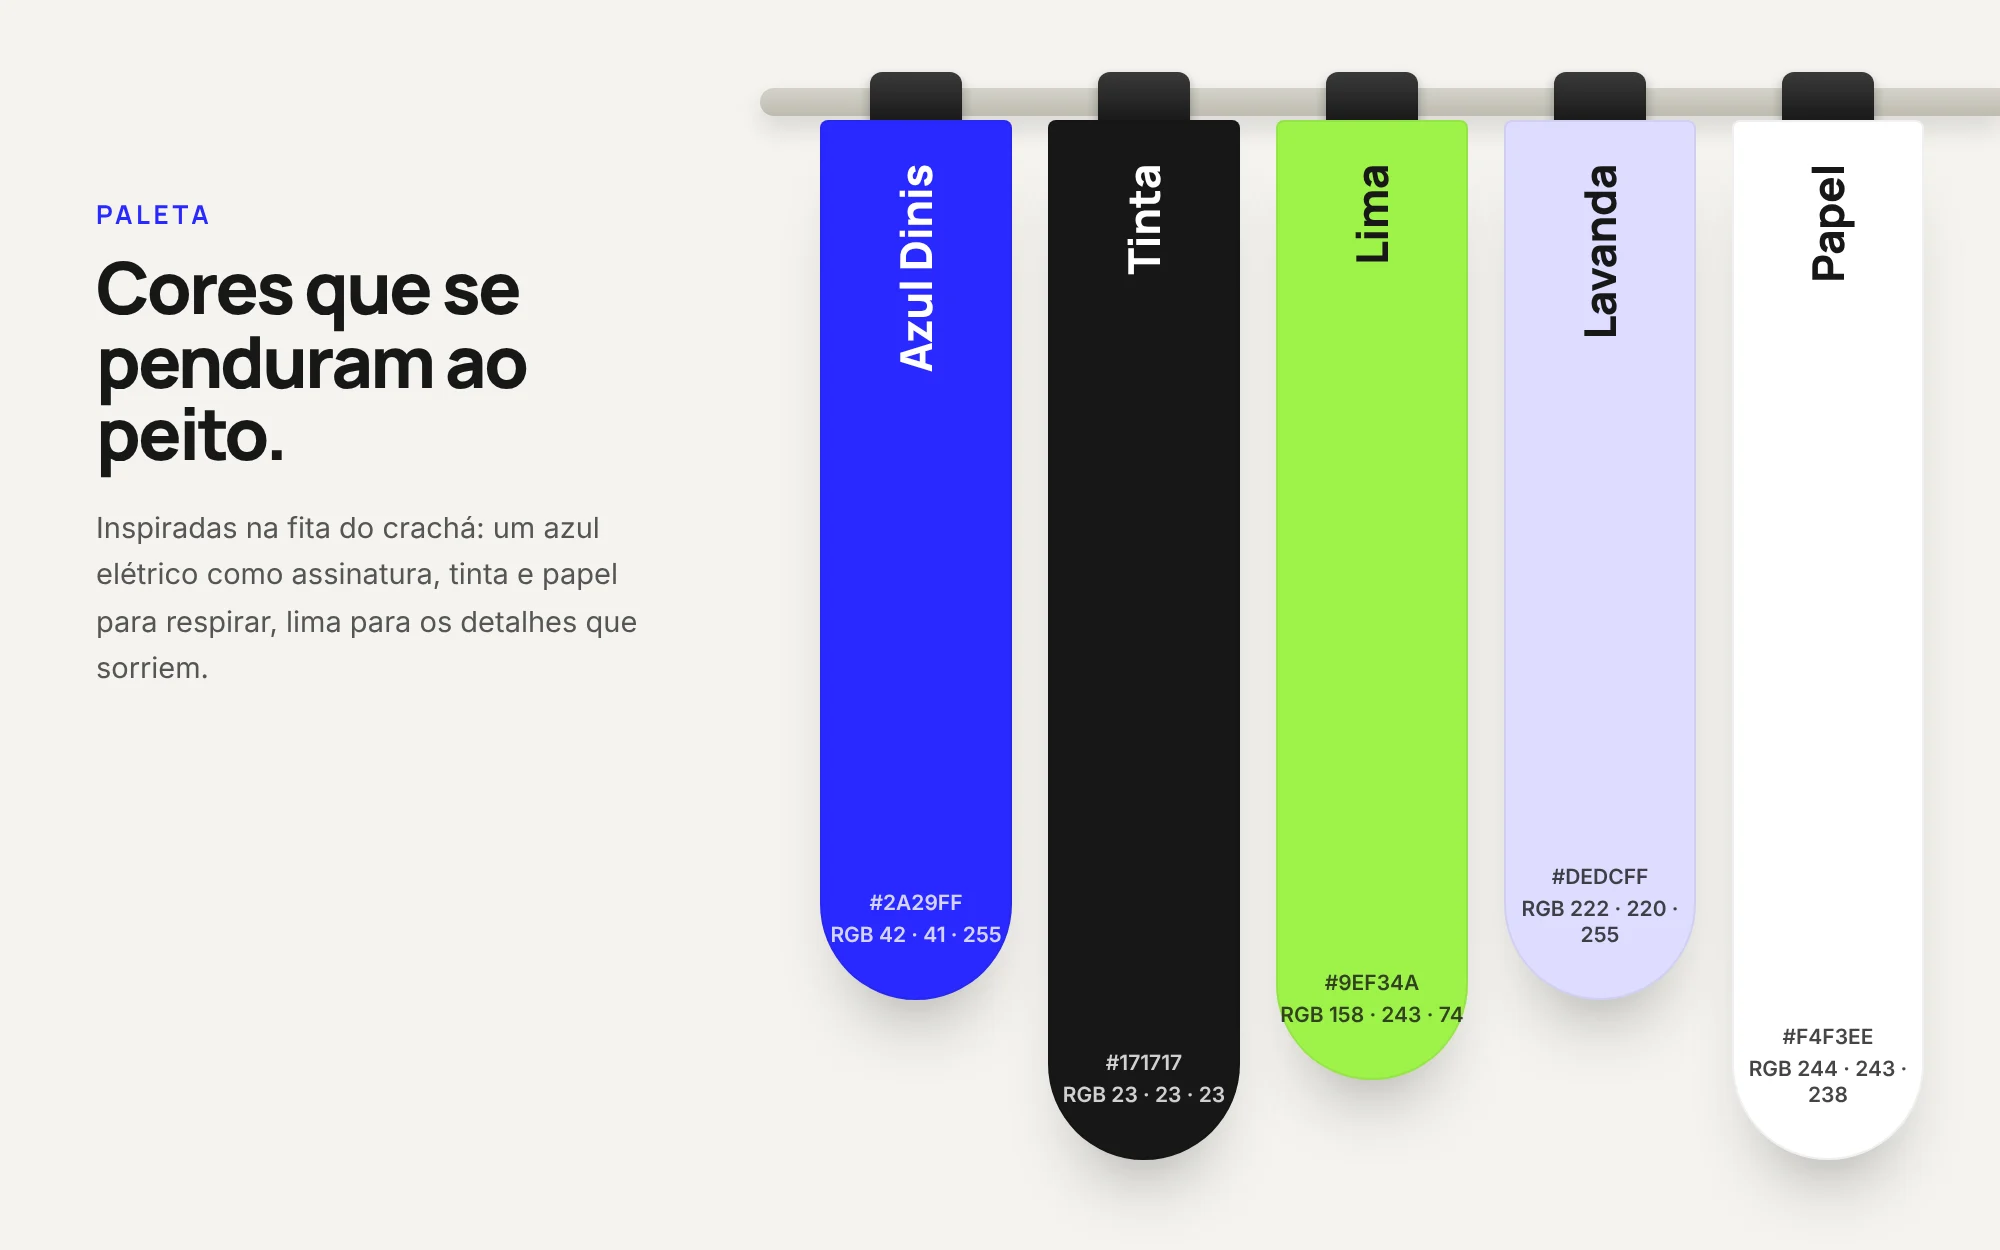
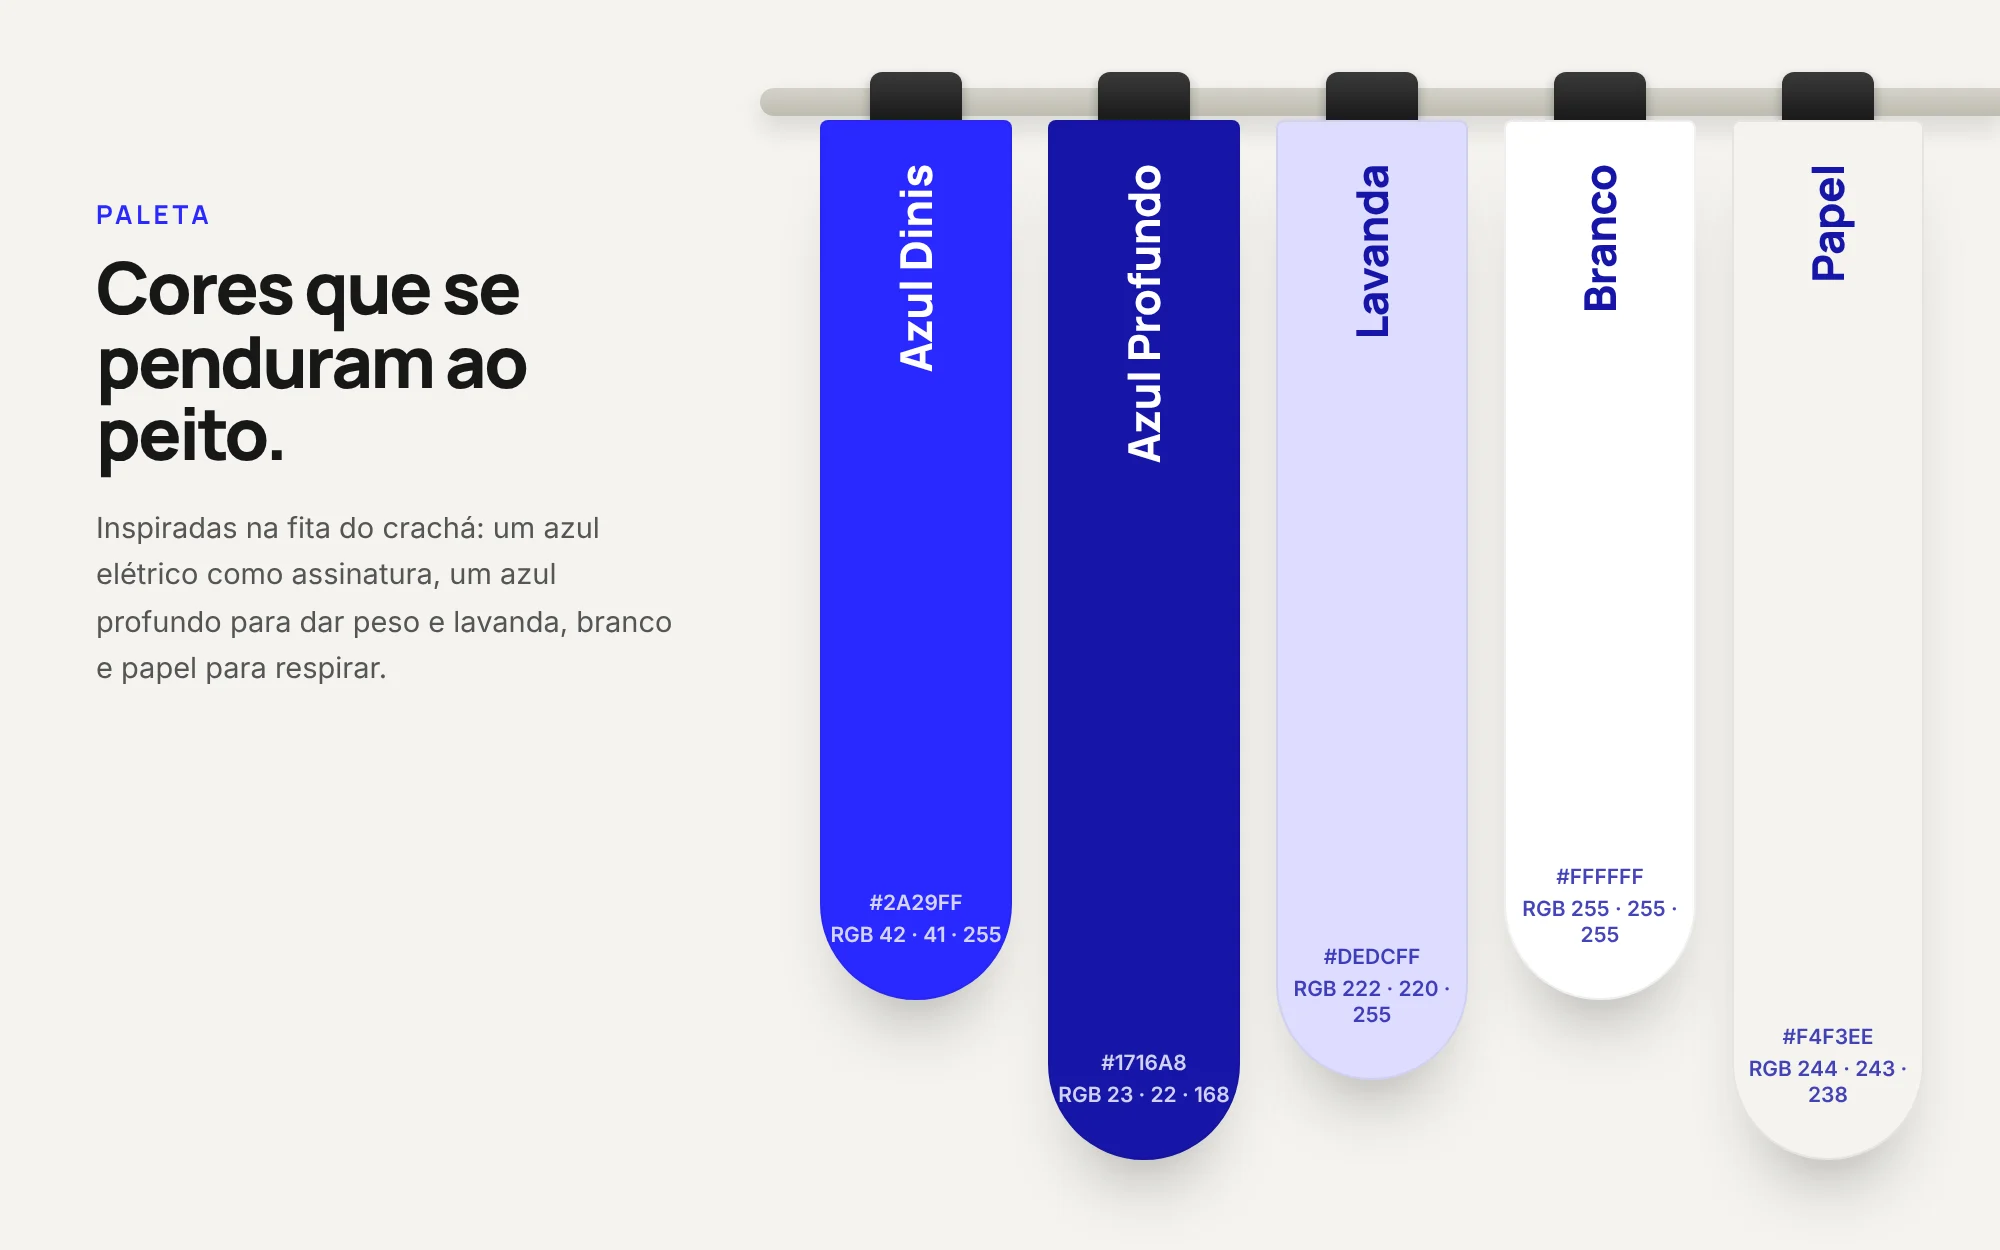
Marca pessoal: sem verde-lima nem preto, sem ponto verde
Claude-Session: https://claude.ai/code/session_017ewHNcAXVDPRRYUgJkUYqb

diff --git a/en/projects/dinis-cardoso-brand/index.html b/en/projects/dinis-cardoso-brand/index.html
@@ -74,7 +74,7 @@
 
   <section class="chapter">
     <div class="side rv"><span class="no"><b>02</b>Process</span></div>
-    <div class="body"><h2 class="rv">Where the d closes, the c opens</h2><p class="rv">The mark is built from two identical circles and one vertical stroke shared by both letters. The d is closed: it stands for focus and for a problem that is clearly defined. The c is open: it leaves room for the idea to come in — in the animation, it is literally where the lime dot, the solution, lands. The stem belongs to both, because the same line that closes one idea always opens the next. The palette takes its cue from the badge lanyard: an electric blue as the signature, ink and paper to breathe, and lime for the details that smile.</p></div>
+    <div class="body"><h2 class="rv">Where the d closes, the c opens</h2><p class="rv">The mark is built from two identical circles and one vertical stroke shared by both letters. The d is closed: it stands for focus and for a problem that is clearly defined. The c is open: it leaves room for the idea to come in. The stem belongs to both, because the same line that closes one idea always opens the next. The palette takes its cue from the badge lanyard: an electric blue as the signature, a deep blue to add weight, and lavender, white and paper to breathe.</p></div>
   </section>
   <div class="gallery"><figure class="full rv" style="aspect-ratio:1000/640" data-full="../../../assets/img/dc-variations.webp"><img src="../../../assets/img/dc-variations.webp" alt="Dinis Cardoso® — Personal brand — project image" loading="lazy"></figure><figure class="full rv" style="aspect-ratio:1000/625" data-full="../../../assets/img/dc-palette.webp"><img src="../../../assets/img/dc-palette.webp" alt="Dinis Cardoso® — Personal brand — project image" loading="lazy"></figure><figure class="full rv" style="aspect-ratio:1000/625" data-full="../../../assets/img/dc-type.webp"><img src="../../../assets/img/dc-type.webp" alt="Dinis Cardoso® — Personal brand — project image" loading="lazy"></figure><figure class="full rv" style="aspect-ratio:1000/640" data-full="../../../assets/img/dc-pattern.webp"><img src="../../../assets/img/dc-pattern.webp" alt="Dinis Cardoso® — Personal brand — project image" loading="lazy"></figure></div>
   
@@ -82,7 +82,7 @@
   <section class="result rv">
     <div class="in-wrap">
       <div><span class="no"><b>03</b>Outcome</span></div>
-      <div><h2>A system with a personality</h2><p>From there the identity grew into a full system: main, positive, night and energy versions, a seal, an app icon and a repeating pattern; Manrope for clarity and Caveat for the handwritten voice of the motto. Applied to business cards, letterhead, posters with my own photos, merchandise and social media, the brand stays recognisable even before you read the name — direct, warm and always one step closer to the next idea.</p></div>
+      <div><h2>A system with a personality</h2><p>From there the identity grew into a full system: main, positive, deep and soft versions, a seal, an app icon and a repeating pattern; Manrope for clarity and Caveat for the handwritten voice of the motto. Applied to business cards, letterhead, posters with my own photos, merchandise and social media, the brand stays recognisable even before you read the name — direct, warm and always one step closer to the next idea.</p></div>
     </div>
     <div class="gallery"><figure class="full rv" style="aspect-ratio:1000/640" data-full="../../../assets/img/dc-posters.webp"><img src="../../../assets/img/dc-posters.webp" alt="Dinis Cardoso® — Personal brand — project image" loading="lazy"></figure><figure class="full rv" style="aspect-ratio:1000/640" data-full="../../../assets/img/dc-stationery.webp"><img src="../../../assets/img/dc-stationery.webp" alt="Dinis Cardoso® — Personal brand — project image" loading="lazy"></figure><figure class="full rv" style="aspect-ratio:1000/640" data-full="../../../assets/img/dc-merch.webp"><img src="../../../assets/img/dc-merch.webp" alt="Dinis Cardoso® — Personal brand — project image" loading="lazy"></figure><figure class="full rv" style="aspect-ratio:1000/640" data-full="../../../assets/img/dc-social.webp"><img src="../../../assets/img/dc-social.webp" alt="Dinis Cardoso® — Personal brand — project image" loading="lazy"></figure></div>
   </section>

diff --git a/projects/dinis-cardoso-brand/index.html b/projects/dinis-cardoso-brand/index.html
@@ -74,7 +74,7 @@
 
   <section class="chapter">
     <div class="side rv"><span class="no"><b>02</b>Processo</span></div>
-    <div class="body"><h2 class="rv">Onde o d fecha, o c abre</h2><p class="rv">A marca nasce de duas circunferências iguais e de uma haste vertical partilhada pelas duas letras. O d é fechado: representa o foco e um problema bem definido. O c fica aberto: deixa espaço para a ideia entrar — na animação, é literalmente ali que pousa o ponto verde-lima, a solução. A haste pertence às duas, porque o mesmo traço que fecha uma ideia abre sempre a próxima. A paleta inspira-se na fita do crachá: um azul elétrico como assinatura, tinta e papel para respirar, e lima para os detalhes que sorriem.</p></div>
+    <div class="body"><h2 class="rv">Onde o d fecha, o c abre</h2><p class="rv">A marca nasce de duas circunferências iguais e de uma haste vertical partilhada pelas duas letras. O d é fechado: representa o foco e um problema bem definido. O c fica aberto: deixa espaço para a ideia entrar. A haste pertence às duas, porque o mesmo traço que fecha uma ideia abre sempre a próxima. A paleta inspira-se na fita do crachá: um azul elétrico como assinatura, um azul profundo para dar peso, e lavanda, branco e papel para respirar.</p></div>
   </section>
   <div class="gallery"><figure class="full rv" style="aspect-ratio:1000/640" data-full="../../assets/img/dc-variations.webp"><img src="../../assets/img/dc-variations.webp" alt="Dinis Cardoso® — Marca pessoal — imagem do projeto" loading="lazy"></figure><figure class="full rv" style="aspect-ratio:1000/625" data-full="../../assets/img/dc-palette.webp"><img src="../../assets/img/dc-palette.webp" alt="Dinis Cardoso® — Marca pessoal — imagem do projeto" loading="lazy"></figure><figure class="full rv" style="aspect-ratio:1000/625" data-full="../../assets/img/dc-type.webp"><img src="../../assets/img/dc-type.webp" alt="Dinis Cardoso® — Marca pessoal — imagem do projeto" loading="lazy"></figure><figure class="full rv" style="aspect-ratio:1000/640" data-full="../../assets/img/dc-pattern.webp"><img src="../../assets/img/dc-pattern.webp" alt="Dinis Cardoso® — Marca pessoal — imagem do projeto" loading="lazy"></figure></div>
   
@@ -82,7 +82,7 @@
   <section class="result rv">
     <div class="in-wrap">
       <div><span class="no"><b>03</b>Resultado</span></div>
-      <div><h2>Um sistema com personalidade</h2><p>A partir daqui, a identidade cresceu para um sistema completo: versões principal, positiva, noite e energia, um selo, um ícone e um padrão; a Manrope para a clareza e a Caveat para a voz manuscrita do lema. Aplicada em cartões de visita, papel timbrado, cartazes com as minhas fotografias, merchandising e redes sociais, a marca é reconhecível antes mesmo de se ler o nome — direta, próxima e sempre a um passo da próxima ideia.</p></div>
+      <div><h2>Um sistema com personalidade</h2><p>A partir daqui, a identidade cresceu para um sistema completo: versões principal, positiva, profunda e suave, um selo, um ícone e um padrão; a Manrope para a clareza e a Caveat para a voz manuscrita do lema. Aplicada em cartões de visita, papel timbrado, cartazes com as minhas fotografias, merchandising e redes sociais, a marca é reconhecível antes mesmo de se ler o nome — direta, próxima e sempre a um passo da próxima ideia.</p></div>
     </div>
     <div class="gallery"><figure class="full rv" style="aspect-ratio:1000/640" data-full="../../assets/img/dc-posters.webp"><img src="../../assets/img/dc-posters.webp" alt="Dinis Cardoso® — Marca pessoal — imagem do projeto" loading="lazy"></figure><figure class="full rv" style="aspect-ratio:1000/640" data-full="../../assets/img/dc-stationery.webp"><img src="../../assets/img/dc-stationery.webp" alt="Dinis Cardoso® — Marca pessoal — imagem do projeto" loading="lazy"></figure><figure class="full rv" style="aspect-ratio:1000/640" data-full="../../assets/img/dc-merch.webp"><img src="../../assets/img/dc-merch.webp" alt="Dinis Cardoso® — Marca pessoal — imagem do projeto" loading="lazy"></figure><figure class="full rv" style="aspect-ratio:1000/640" data-full="../../assets/img/dc-social.webp"><img src="../../assets/img/dc-social.webp" alt="Dinis Cardoso® — Marca pessoal — imagem do projeto" loading="lazy"></figure></div>
   </section>
